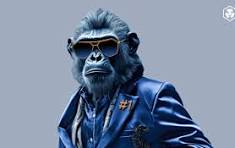
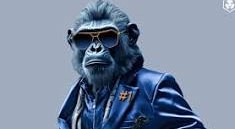
new changes

Changed region(s): [[0.2383, 0.0, 0.9234, 1.0], [0.9234, 0.0, 1.0, 0.155]]

diff --git a/src/Hero.jsx b/src/Hero.jsx
@@ -1,14 +1,19 @@
 import './hero.css'
-import NFT1 from './assets/NFT1.jpg'
+import NFT1T from './assets/NFT1T.png'
 function Hero (){
 
     return(
-        <div className="flex h-96 w-auto bg-slate-300 hero">
-            <div className="hero-text">
-                Lorem ipsum dolor, sit amet consectetur adipisicing elit. Amet beatae
+        <div className="flex-col md:flex-row  h-auto w-auto bg-slate-300 hero">
+            <div>
+                <h1  className="hero-text mt-5 text-slate-900 ml-3 md:ml-6">Buy Your Favourite Ape NFTs At Affordable Prices</h1>
+                <h6 className='mt-5 text-slate-950 ml-4 md:ml-7'>Lorem ipsum dolor sit amet consectetur adipisicing elit. Similique quo rerum beatae, porro eligendi, consectetur mollitia atque voluptatibus laborum error fuga explic</h6>
+                <div className='btn flex gap-3 mt-5 ml-4 md:ml-6'>
+                    <button className='bg-slate-600 rounded-2xl h-10 w-24 text-slate-300'>Learn More</button>
+                    <button  className='bg-slate-300 border-slate-600 border-2 rounded-2xl h-10 w-24 text-slate-600'>Shop</button>
+                </div>
             </div>
             <div>
-                <img src={NFT1} className='heroImg '></img>
+                <img src={NFT1T} className='heroImg '></img>
             </div>
         </div>
     )

diff --git a/src/NavBar.jsx b/src/NavBar.jsx
@@ -4,19 +4,19 @@ function Navbar (){
 
   return(
     <div>
-      <nav className=" bg-slate-400 h-12 gap-48">
-        <div className="brandName mt-2">
-          NFT Store
+      <nav className=" bg-slate-400 h-12 md:gap-32 md:px-80 px-5 gap-5 flex">
+        <div className="brandName mt-2 text-slate-800 text-2xl flex">
+         NFTStore 
         </div>
-        <div className="Menu flex right-0 mt-2 gap-3 ">
-            <li><a href="#">Home</a></li>
-            <li><a href="#">About</a></li>
-            <li><a href="#">Shop</a></li>
-            <li><a href="#">Contact</a></li>
+        <div className="Menu flex right-0 md:mt-2 mt-3 md:gap-5 gap-4 md:text-xl text-sm ml-4">
+            <li className='list-none p-0 m-0'><a href="#">Home</a></li>
+            <li className='list-none p-0 m-0'><a href="#">About</a></li>
+            <li className='list-none p-0 m-0'><a href="#">Shop</a></li>
+            <li className='list-none p-0 m-0'><a href="#">Contact</a></li>
         </div>
 
-        <div className='mt-2'>
-          <img src={Cart} className='text-slate-900'></img>
+        <div className='md:mt-2 mt-3 ml-8'>
+          <img src={Cart} className='text-slate-900 text-xl'></img>
         </div>
       </nav>
     </div>

diff --git a/src/App.jsx b/src/App.jsx
@@ -3,7 +3,7 @@ import NFT2 from './assets/NFT2.jpg'
 import NFT3 from './assets/NFT3.jpg'
 import NFT4 from './assets/NFT4.jpg'
 import NFT5 from './assets/NFT5.jpg'
-import NFT6 from './assets/NFT6.png'
+import Footer from './Footer.jsx'
 import Hero from './Hero.jsx'
 import NavBar from './NavBar.jsx'
 import ProductList from './ProductList.jsx';
@@ -21,7 +21,7 @@ function App(){
       <ProductList Img={NFT3} name="Ape King" price="$600" description="lorem" Availability="true" cartegory="ApeNFT"/>
       <ProductList Img={NFT4} name="Crypto Monk" price="$300" description="lorem" Availability="true" cartegory="ApeNFT"/>
       <ProductList Img={NFT5} name="Blossom Tree" price="$200" description="lorem" Availability="true" cartegory="ApeNFT"/>
-      <ProductList Img={NFT6} name="Blossom Tree" price="$330" description="lorem" Availability="true" cartegory="MemeNFT"/>
+      <Footer></Footer>
       </>
   );
 

diff --git a/src/Footer.jsx b/src/Footer.jsx
@@ -1,0 +1,25 @@
+function Footer(){
+
+    return(
+        <footer className="bg-slate-600 text-slate-400 h-auto">
+            <div>
+                <span className="text-slate-200 text-2xl">NFT Store</span>
+            </div>
+            <p className="text-slate-200 text-xl">Quick Link</p>
+            <div className="flex list-none text-x gap-4">
+                
+                <ul>
+                    <li><a>Home</a></li>
+                    <li><a>About</a></li>
+                    <li><a>Shop</a></li>
+                    <li><a>Contact</a></li>
+                </ul>
+            </div>
+            <hr className="text-slate-200"></hr>
+                <div>
+                    <p className="text-center">&copy; {new Date().getFullYear()} All Right Reserved </p>
+                </div>
+        </footer>
+    )
+}
+export default Footer

diff --git a/src/Timeline.jsx b/src/Timeline.jsx
@@ -1,8 +1,11 @@
+import Filter from './assets/browser.png'
+import './Timeline.css'
 function Timeline(){
 
     return(
-        <div className="bg-slate-400">
-            <h1 className="text-slate-900">OUR PRODUCTS</h1>
+        <div className="bg-slate-400 h-12 flex gap-5">
+            <h1 className="text-slate-900 timeLineText">NFTs</h1>
+            <p className='flex mt-4'><img src={Filter} className='h-7 w-7'></img>Filter</p>
         </div>
     )
 }

diff --git a/src/ProductList.jsx b/src/ProductList.jsx
@@ -4,7 +4,7 @@ function ProductList(props){
 
     return(
         <>
-        <div className="card">
+        <div className="card px-auto gap-6">
             <img src={props.Img} alt="Profile Picture" className='card-image'></img>
             <div className='flex gap-20'>
             <h2 className='card-title text-slate-800 text-lg'>{props.name}</h2>

diff --git a/src/Timeline.css b/src/Timeline.css
@@ -1,4 +1,4 @@
-
-nav{
+.timeLineText{
+    font-size: 2rem;
     font-family: 'Montserrat' sans-serif;
 }

diff --git a/src/hero.css b/src/hero.css
@@ -9,3 +9,6 @@
     width: 50rem;
     height: 24rem;
 }
+p{
+    font-size: 1rem;
+}
